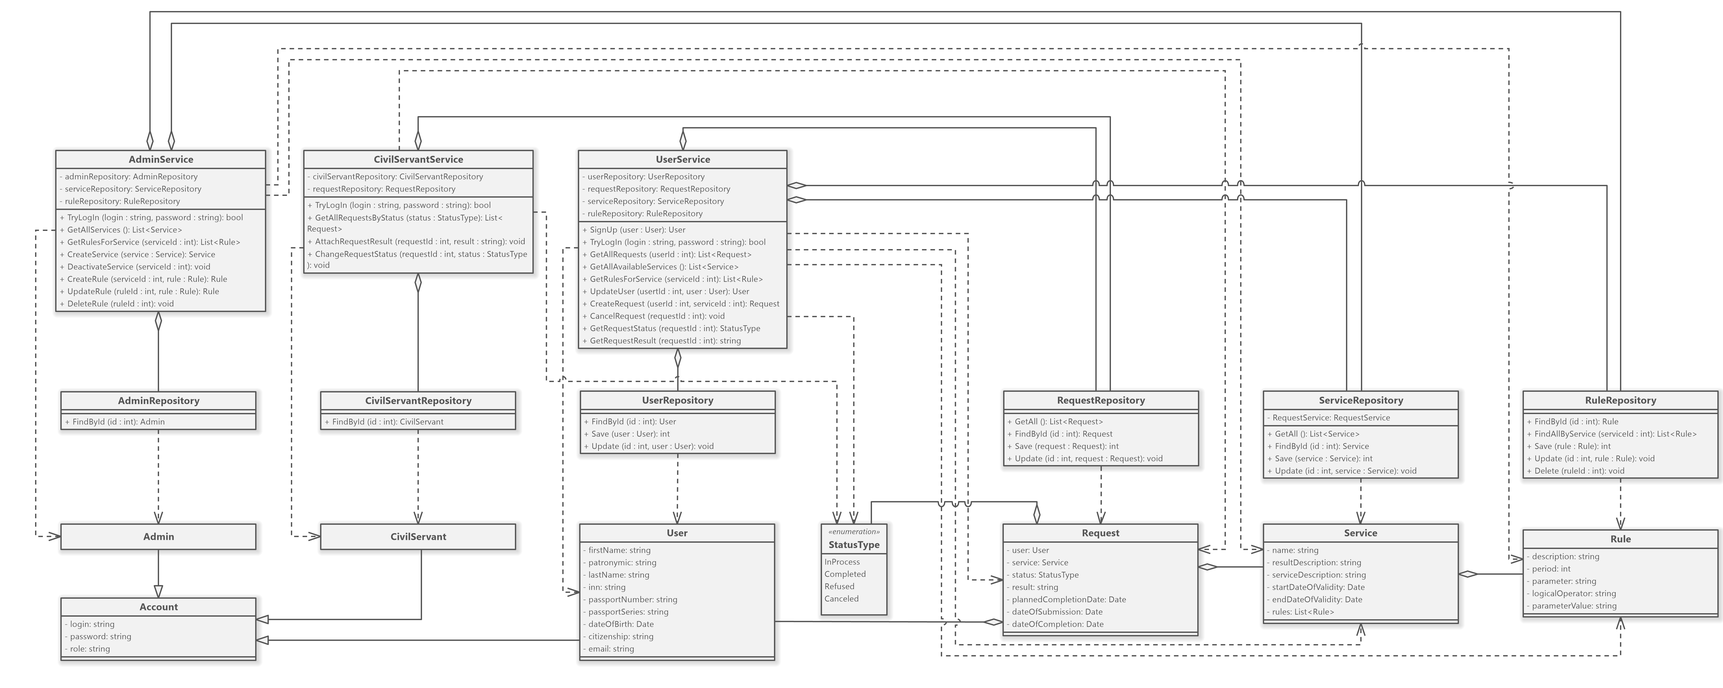
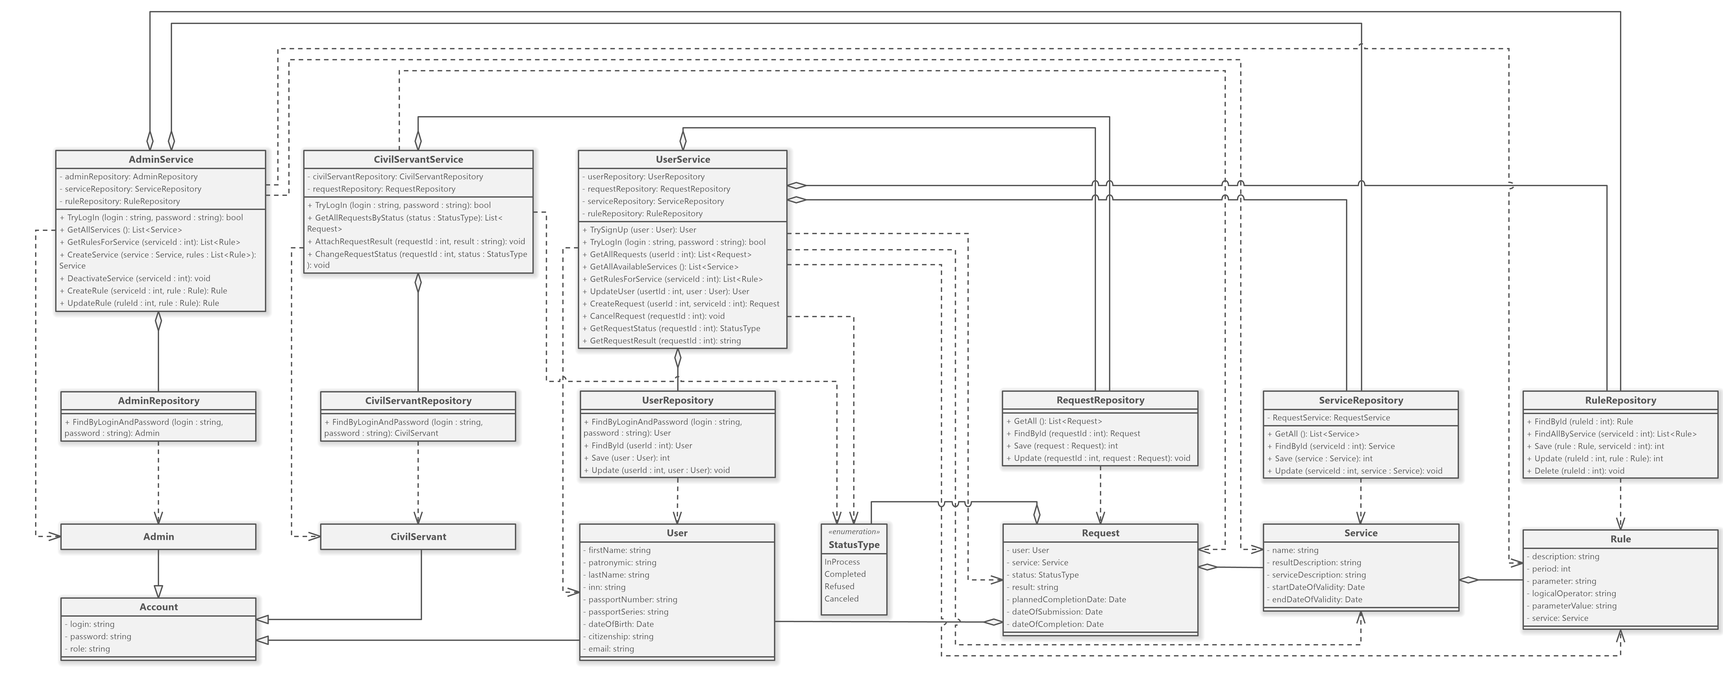
Make Sequences

diff --git a/4. Системная диаграмма последовательности/Последовательности.md b/4. Системная диаграмма последовательности/Последовательности.md
@@ -1,0 +1,183 @@
+# Администратор 
+### Войти в систему
+![](Admin.LogInToSystem.png)
+1. Admin передаёт логин и пароль в AdminController.
+2. AdminController вызывает метод TryLogIn из AdminService, который:
+	1. Вызывает метод FindByLoginAndPassword из AdminRepository, проверяющий есть ли аккаунт с введёнными логином и паролем в БД.
+	2. БД через AdminRepository возвращает результат в AdminService.
+3. AdminService (в зависимости от результата):
+	1. Если аккаунт с ролью admin существует, то TryLogIn возвращает true, и AdminController выводит сообщение о удачном входе в аккаунт.
+	2. Иначе, если аккаунт не существует, TryLogIn возвращает false, и AdminController выводит сообщение о том, что аккаунта с таким логином и паролем не существует.
+### Добавить услугу
+![](Admin.AddService.png)
+1. Admin создаёт услуги и прикрепляет правила, передавая это в качестве параметров AdminController.
+2. AdminController вызывает метод CreateService из AdminService, который:
+	1. Происходит сохранение услугу через метод Save из ServiceRepository в БД.
+	2. Возвращается идентификатор только что добавленной услуги.
+	3. Если список правил не пустой, то каждое правило сохраняется в БД через метод Save из RuleRepository.
+3. CreateService из AdminService возвращает экземпляр созданной услуги и AdminController оповещает о том, что услуга была добавлена.
+### Сделать услугу недоступной
+![](Admin.MakeServiceInactive.png)
+1. Admin делает какую-то услугу неактивной, передавая в AdminContoller идентификатор услуги.
+2. AdminContoller вызывает метод DeactivateService из AdminService, который:
+	1. Проверяет, действительно ли существует такая услуга, вызывая FindById из ServiceRepository.
+	2. ServiceRepository в свою очередь обращается к БД, та возвращает результат.
+3. AdminService (в зависимости от результата):
+	1. Если услуга существует, то: 
+		1. AdminService обновляет через ServiceRepository endDateOfValidity, устанавливая текущую дату, что равноценно прекращению действия услуги.
+		2. AdminController отображает сообщение, что услуга больше не активна.
+	2. Если услуга не существует, то AdminController отображает ошибку, что услуга не существует
+### Добавить правило
+![](Admin.AddRule.png)
+1. Admin добавляет правило, передавая идентификатор услуги и данные правила в AdminController.
+2. AdminController вызывает CreateRule, который:
+	1. Проверяет через FindById из RuleRepository, существует ли услуга с таким идентификатором.
+	2. RuleRepository связывает с БД, та возвращает результат.
+3. AdminService (в зависимости от результата):
+	1. Если услуга существует, то:
+		1. Происходит сохранение правила методом Save через RuleRepository.
+		2. RuleRepository отправляет запрос к БД.
+		3. AdminController возвращает сообщение, что правило добавлено.
+	2. Если услуга не существует, AdminController возвращает сообщение об ошибке, что услуга не найдена.
+### Редактировать правило
+![](Admin.EditRule.png)
+1. Admin редактирует правило, передавая в AdminController идентификатор правили и изменения.
+2. AdminController вызывает UpdateRule из AdminService, который:
+	1. Проверяет существует ли такое правило, вызывая FindById из RuleRepository.
+	2. RuleRepository обращается к БД, та возвращает результат.
+3. AdminService (в зависимости от результата):
+	1. Если правило существует, то:
+		1. AdminService вызывает Update из RuleRepository.
+		2. RuleRepository обращается к БД, вносит изменения.
+		3. AdminController возвращает сообщение, что правило обновлено.
+	2. Если правило не существует, AdminController возвращает сообщение об ошибке, что правило не найдено.
+### Удалить правило
+![](Admin.DeleteRule.png)
+1. Admin удаляет правило, сообщая AdminController идентификатор правила.
+2. AdminController вызывает DeleteRule из AdminService, который:
+	1. AdminService проверяет, действительно ли существует такое правило, вызывая FindById из RuleRepository.
+	2. RuleRepository делает запрос к БД, та возвращает результат.
+3. AdminService (в зависимости от результата):
+	1. Если правило существует, то:
+		1. AdminService вызывает Delete из RuleRepository.
+		2. RuleRepository обращается к БД, удаляет правило.
+		3. AdminController возвращает сообщение, что правило удалено.
+	2. Если правило не существует, AdminController возвращает сообщение об ошибке, что правило не найдено.
+
+---
+# Госслужащий
+### Войти в систему
+![](CivilServant.LogInToSystem.png)
+1. CivilServant хочет войти в систему, передавая CivilServantController логин и пароль.
+2. CivilServantController вызывает метод TryLogIn из CivilServantService, который:
+	1. Вызывает метод FindByLoginAndPassword из CivilServantRepository, проверяющий есть ли аккаунт с введёнными логином и паролем в БД.
+	2. БД через CivilServantRepository возвращает результат в CivilServantService.
+3. CivilServantService (в зависимости от результата):
+	1. Если аккаунт с ролью civilservant существует, то TryLogIn возвращает true, и CivilServantController выводит сообщение о удачном входе в аккаунт.
+	2. Иначе, если аккаунт не существует, TryLogIn возвращает false, и CivilServantController выводит сообщение о том, что аккаунта с таким логином и паролем не существует.
+### Просмотреть заявку
+![](CivilServant.ViewRequest.png)
+1. CivilServant получает заявки с отбором по статусу, передавая CivilServantController необходимый статус.
+2. CivilServantController вызывает GetAllRequestsByStatus из CivilServantService.
+	1. CivilServantController вызывает метод GetAll из RequestRepository.
+	2. RequestRepository делает запрос к БД, та возвращает все заявки.
+3. CivilServantService отбирает и возвращает только заявки, которые соответствуют изначально указанному статусу.
+4. CivilServantController выводит список заявок с заданным статусом.
+### Изменить статус услуги
+![](CivilServant.ChangeRequestStatus.png)
+1. CivilServant изменяет статус заявки, передавая CivilServantController идентификатор заявки и новый статус.
+2. CivilServantController вызывает ChangeRequestStatus из CivilServantService, который:
+	1.  Проверяет, есть ли заявка с таким идентификатором, вызывая FindById из RequestRepository.
+	2. RequestRepository делает запрос к БД, та возвращает результат.
+3. CivilServantService (в зависимости от результата):
+	1. Если заявка существует, то:
+		1. CivilServantService вызывает Update из RequestRepository.
+		2. RequestRepository обращается к БД, вносит изменения.
+		3. CivilServantController возвращает сообщение, что статус заявки обновлён.
+	2. Если заявки не существует, CivilServantController возвращает сообщение об ошибке, что заявка не найдена.
+### Добавить результат услуги
+![](CivilServant.AddRequestResult.png)
+1. CivilServant прикрепляет результат к заявке, передавая в CivilServantController идентификатор заявки и результат.
+2. CivilServantController вызывает AttachRequestResult из CivilServantService, который:
+	1. Проверяет, действительно ли существует заявка с указанным идентификатором, вызывая FindById из RequestRepository.
+	2. RequestRepository делает запрос к БД, та возвращает результат.
+3. CivilServantService (в зависимости от результата):
+	1. Если заявка существует, то:
+		1. CivilServantService вызывает Update из RequestRepository.
+		2. RequestRepository обращается к БД, вносит изменения.
+		3. CivilServantController возвращает сообщение, что статус заявки обновлён.
+	2. Если заявки не существует, CivilServantController возвращает сообщение об ошибке, что заявка не найдена.
+---
+# Пользователь
+
+### Зарегистрироваться
+![](User.SignUpToSystem.png)
+1. User регистрируется в системе, передавая UserController логин и пароль.
+2. UserController вызывает TrySignUp из UserService, который:
+	1. Вызывает FindByLoginAndPassword из UserRepository, проверяя, есть ли уже такие логин и пароль.
+	2. UserRepository делает запрос к БД, та возвращает результат.
+3. UserService (в зависимости от результата):
+	1. Если такого пользователя *не* существует, то:
+		1. UserService вызывает Save из UserRepository.
+		2. UserRepository обращается к БД, сохраняя нового пользователя.
+		3. UserService возвращает true, и UserController возвращает сообщение, что аккаунт зарегистрирован.
+	2. Если пользователя уже существует, UserService возвращает false, и UserController возвращает сообщение об ошибке, что пользователь с таким логином и паролем существует.
+### Войти в систему
+![](User.LogInToSystem.png)
+1. User хочет войти в систему, передавая UserController логин и пароль.
+2. UserController вызывает метод TryLogIn из UserService, который:
+	1. Вызывает метод FindByLoginAndPassword из UserRepository, проверяющий есть ли аккаунт с введёнными логином и паролем в БД.
+	2. БД через UserRepository возвращает результат в UserService.
+3. UserService (в зависимости от результата):
+	1. Если аккаунт с ролью user существует, то TryLogIn возвращает true, и UserController выводит сообщение о удачном входе в аккаунт.
+	2. Иначе, если аккаунт не существует, TryLogIn возвращает false, и UserController выводит сообщение о том, что аккаунта с таким логином и паролем не существует.
+### Изменить данные учётной записи
+![](User.ChangeUserData.png)
+1. User изменяет данные учётной записи, передавая в UserController идентификатор пользователя и данные.
+2. UserController вызывает UpdateUser из UserService, который:
+	1. Вызывает FindById из UserRepository, проверяющий есть ли пользователь с таким идентификатором.
+	2. UserRepository обращается к БД, та возвращает результат.
+3. UserService (в зависимости от результата):
+	1. Если пользователь существует, то:
+		1. UserService вызывает Update из UserRepository.
+		2. UserRepository обращается к БД, вносит изменения.
+		3. UserController возвращает сообщение, что данные обновлены.
+	2. Если пользователя не существует, UserController возвращает сообщение об ошибке, что пользователя не существует.
+### Подать заявку на услугу
+![](User.SubmitRequest.png)
+1. User подаёт заявку, передавая UserController идентификаторы пользователя и услуги.
+2. UserController вызывает CreateRequest из UserService, который:
+	1. Проверяет, вызывая FindById из ServiceRepository, существует ли такая услуга.
+	2. ServiceRepository делает запрос к БД, та возвращает результат.
+3. UserService (в зависимости от результата):
+	1. Если услуга существует, то:
+		1. UserService вызывает Save из UserRepository.
+		2. UserRepository обращается к БД, сохраняет заявку.
+		3. UserController возвращает сообщение, что заявка создана.
+	2. Если услуги не существует, UserController возвращает сообщение об ошибке, что услуги не существует.
+### Отследить статус заявки
+![](User.GetRequestStatus.png)
+1. User получает статус заявки, передавая UserController идентификатор заявки.
+2. UserController вызывает GetRequestStatus из UserService, который в свою очередь вызывает FindById из RequestRepository, и далее возвращается результат запроса к БД.
+3. UserService (в зависимости от результата):
+	1. Если заявка существует, то возвращается её статус.
+	2. Если заявки не существует, возвращается ошибка, что заявки не существует.
+### Получить результат услуги
+![](User.GetRequestResult.png)
+1. User получает результат заявки, передавая UserController идентификатор заявки.
+2. UserController вызывает GetRequestResult из UserService, который в свою очередь вызывает FindById из RequestRepository, и далее возвращается результат запроса к БД.
+3. UserService (в зависимости от результата):
+	1. Если заявка существует, то возвращается её результат.
+	2. Если заявки не существует, возвращается ошибка, что заявки не существует.
+### Отменить заявку
+![](User.CancelRequest.png)
+1. User отменяет заявку, передавая в UserController её идентификатор.
+2. UserController вызывает CancelRequest из UserService, который:
+	1. Проверяет, существует ли заявка с таким идентификатором, вызывая FindById из RequestRepository.
+	2. RequestRepository делает запрос к БД, та возвращает результат.
+3. UserService (в зависимости от результата):
+	1. Если заявка существует, то:
+		1. UserService вызывает Update из UserRepository.
+		2. UserRepository обращается к БД, вносит изменения (изменяет статус заявки).
+		3. UserController возвращает сообщение, что заявка отменена.
+	2. Если заявки не существует, UserController возвращает сообщение об ошибке, что заявки не существует.

diff --git a/3. Диаграмма классов/Классы.md b/3. Диаграмма классов/Классы.md
@@ -19,7 +19,7 @@
 - ChangeRequestStatus —  изменяет статус заявки
 ### UserService
 Содержит экземпляр объекта UserRepository, RequestRepository, ServiceRepository и RuleRepository
-- SignUp — регистрирует новый аккаунт
+- TrySignUp — регистрирует новый аккаунт
 - TryLogIn — проверяет корректность логина и пароля и входит в существующий аккаунт
 - GetAllRequests — возвращает заявки
 - GetAllActiveServices — возвращает активные (доступные) услуги
@@ -32,10 +32,11 @@
 
 ---
 ### AdminRepository
-- FindById — возвращает конкретного администратора
+- FindByLoginAndPassword — возвращает конкретного администратора
 ### CivilServantRepository
-- FindById — возвращает конкретного госслужащего
+- FindByLoginAndPassword — возвращает конкретного госслужащего
 ### UserRepository
+- FindByLoginAndPassword — возвращает конкретного пользователя
 - FindById — возвращает конкретного пользователя
 - Save — создаёт пользователя и возвращает назначенный идентификатор
 - Update — обновляет информацию о пользователе
